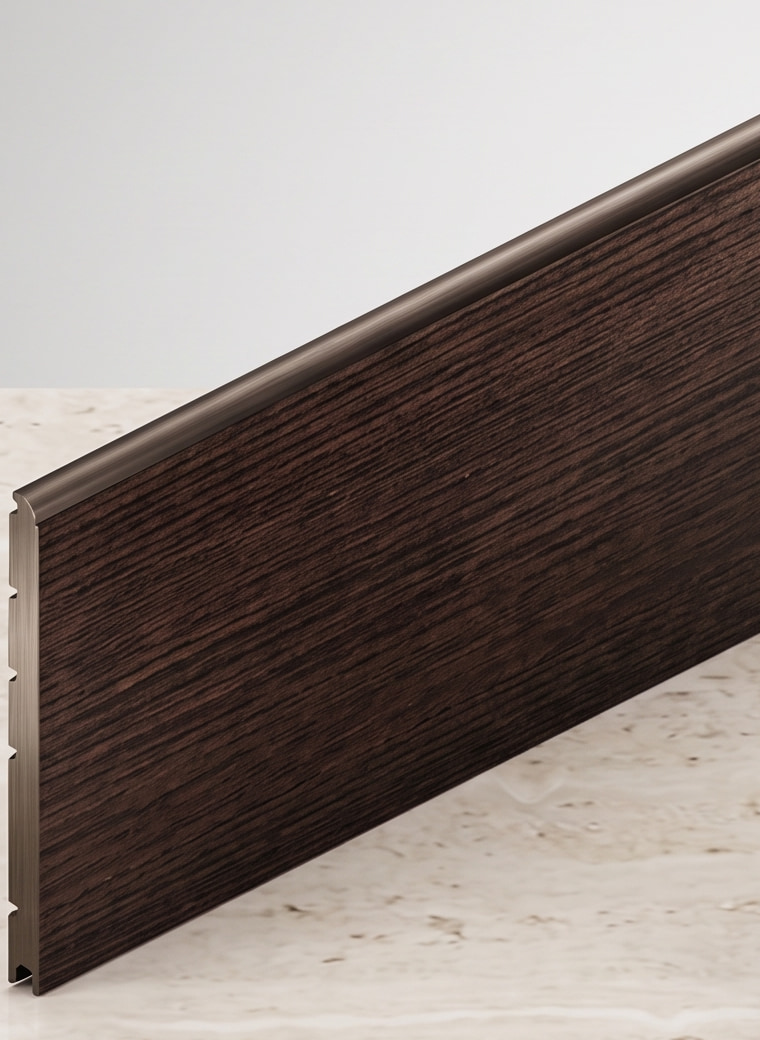
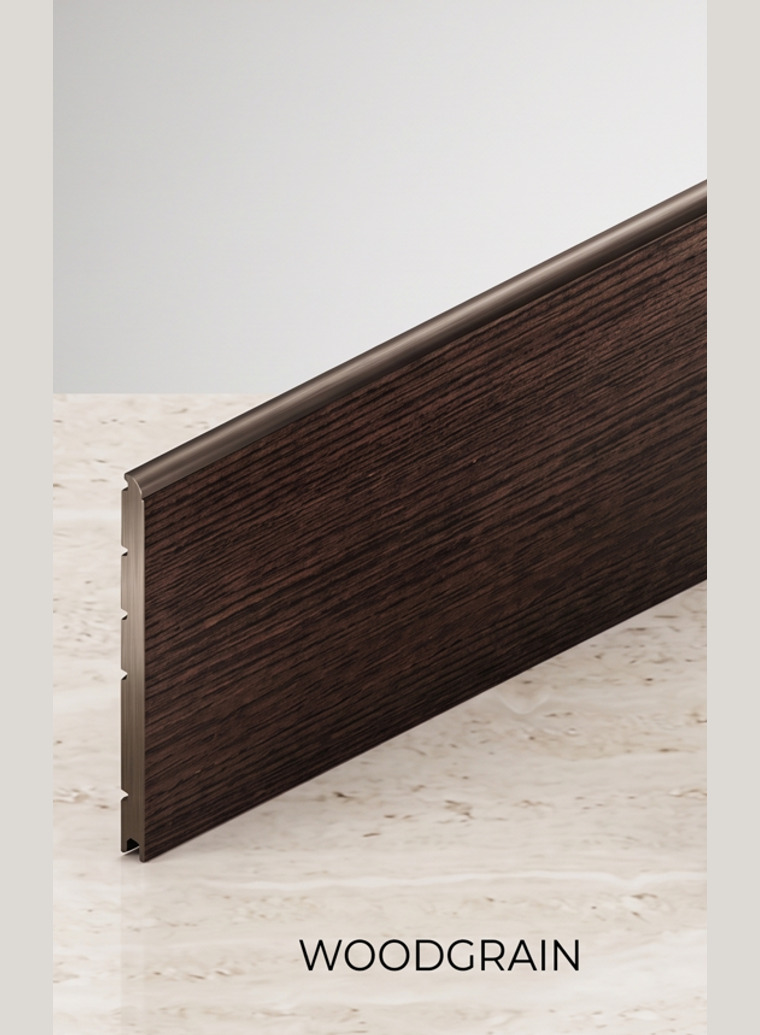
Aangeleverde paneelfoto's en 60 mm alleen op D-GATE U
- Paneelfoto's vervangen door de door de klant aangeleverde afbeeldingen
  (automatisch bijgesneden tot het paneel, 760x1035, kwaliteit 92 met
  4:4:4 chroma). Oude versies staan als backup in de scratchpad.
- Paneeldikte 60 mm bestaat alleen op de D-GATE U. Kiest iemand 60 mm,
  dan wordt dat model aangevinkt; kiest iemand een ander model, dan is
  60 mm niet meer selecteerbaar. De server dwingt dezelfde regel af,
  zodat het ook zonder JavaScript klopt.
- DIKTES is nu een lijst objecten met alleenModel in plaats van strings,
  zodat de regel op een plek staat.

diff --git a/public/js/main.js b/public/js/main.js
@@ -89,6 +89,54 @@
       t.addEventListener('click', function () { zetProfiel(t.dataset.profiel); });
     });
 
+    // 60 mm panelen bestaan alleen op de D-GATE U.
+    // Kiest iemand 60 mm, dan vinken we dat model meteen aan; kiest iemand een
+    // ander model, dan is 60 mm niet meer selecteerbaar.
+    var dikteSelect = document.getElementById('dikteSelect');
+    var dikteHint = document.getElementById('dikteHint');
+    var modelKeuzes = offerteForm.querySelectorAll('input[name="model"]');
+
+    function gekozenModel() {
+      var aan = offerteForm.querySelector('input[name="model"]:checked');
+      return aan ? aan.value : '';
+    }
+
+    function ververDiktes() {
+      if (!dikteSelect) return;
+      var model = gekozenModel();
+      Array.prototype.forEach.call(dikteSelect.options, function (o) {
+        var alleen = o.getAttribute('data-alleen-model');
+        if (!alleen) return;
+        // toegestaan als er nog geen model gekozen is, of als het het juiste model is
+        var mag = model === '' || model.indexOf(alleen) === 0;
+        o.disabled = !mag;
+        if (!mag && dikteSelect.value === o.value) {
+          dikteSelect.value = '';
+          if (dikteHint) dikteHint.hidden = true;
+        }
+      });
+    }
+
+    if (dikteSelect) {
+      dikteSelect.addEventListener('change', function () {
+        var optie = dikteSelect.options[dikteSelect.selectedIndex];
+        var alleen = optie && optie.getAttribute('data-alleen-model');
+        if (!alleen) { if (dikteHint) dikteHint.hidden = true; return; }
+        Array.prototype.forEach.call(modelKeuzes, function (r) {
+          if (r.value.indexOf(alleen) === 0) r.checked = true;
+        });
+        if (dikteHint) dikteHint.hidden = false;
+        ververDiktes();
+      });
+      Array.prototype.forEach.call(modelKeuzes, function (r) {
+        r.addEventListener('change', function () {
+          if (dikteHint) dikteHint.hidden = true;
+          ververDiktes();
+        });
+      });
+      ververDiktes();
+    }
+
     // Beginstand herstellen — nodig als het formulier na een fout opnieuw wordt getoond
     var gekozenTegel = offerteForm.querySelector('.kleur-tegel input:checked');
     if (gekozenTegel) {

diff --git a/server.js b/server.js
@@ -7,7 +7,7 @@ const { offerteIntern, offerteBevestiging } = require('./emails');
 
 const app = express();
 const PORT = process.env.PORT || 3000;
-const SITE_VERSION = '1.8.1'; // cache-busting ?v=
+const SITE_VERSION = '1.9.0'; // cache-busting ?v=
 
 app.set('view engine', 'ejs');
 app.set('views', path.join(__dirname, 'views'));
@@ -247,7 +247,12 @@ const AFWERKINGEN = [
   { naam: 'Deep Mat', code: 'V', kort: 'Diep mat, hoog reliëf', afb: '/img/paneel-deepmat.jpg', profiel: 'hoog' }
 ];
 
-const DIKTES = ['40 mm', '60 mm (alleen D-GATE U)'];
+// 60 mm panelen zijn alleen leverbaar op de D-GATE U. `alleenModel` legt dat vast:
+// het formulier schakelt de optie uit bij een ander model en de server dwingt het af.
+const DIKTES = [
+  { naam: '40 mm', alleenModel: null },
+  { naam: '60 mm', alleenModel: 'D-GATE U' }
+];
 
 // ---------- Routes ----------
 app.get('/', (req, res) => res.render('index', { modellen, kleuren, page: 'home' }));
@@ -356,12 +361,20 @@ app.post('/offerte', async (req, res) => {
     breedte: nette(d.breedte),
     hoogte: nette(d.hoogte),
     model: uitLijst(nette(d.model), modellen.map(m => `${m.naam} (${m.sub.toLowerCase()})`)),
-    dikte: uitLijst(nette(d.dikte), DIKTES),
+    dikte: uitLijst(nette(d.dikte), DIKTES.map(x => x.naam)),
     afwerking: uitLijst(nette(d.afwerking), AFWERKINGEN.map(a => a.naam)),
     kleur: uitLijst(nette(d.kleur), kleuren.map(k => k.naam)),
     motor: nette(d.motor),
     opmerking: nette(d.opmerking)
   };
+
+  // 60 mm bestaat alleen op de D-GATE U. Het formulier regelt dit al met JavaScript,
+  // maar zonder JS (of bij een geknutselde POST) zetten we het model hier alsnog goed.
+  const dikteRegel = DIKTES.find(x => x.naam === aanvraag.dikte);
+  if (dikteRegel && dikteRegel.alleenModel && aanvraag.model.indexOf(dikteRegel.alleenModel) !== 0) {
+    const juist = modellen.find(m => m.naam === dikteRegel.alleenModel);
+    if (juist) aanvraag.model = `${juist.naam} (${juist.sub.toLowerCase()})`;
+  }
 
   // Honeypot: echte bezoekers vullen dit verborgen veld nooit in
   if (d.website) {

diff --git a/public/css/style.css b/public/css/style.css
@@ -730,3 +730,9 @@ a { color: inherit; }
 .teaser-visual svg { width: 100%; height: auto; display: block; }
 
 .model-brochure { font-size: 0.92rem; color: var(--inkt-zacht); }
+
+.veld-hint {
+  font-size: 0.83rem; line-height: 1.45; color: var(--accent-diep);
+  background: rgba(242, 163, 60, 0.12); border-radius: 8px;
+  padding: 0.5rem 0.75rem; margin: -0.5rem 0 1rem;
+}
